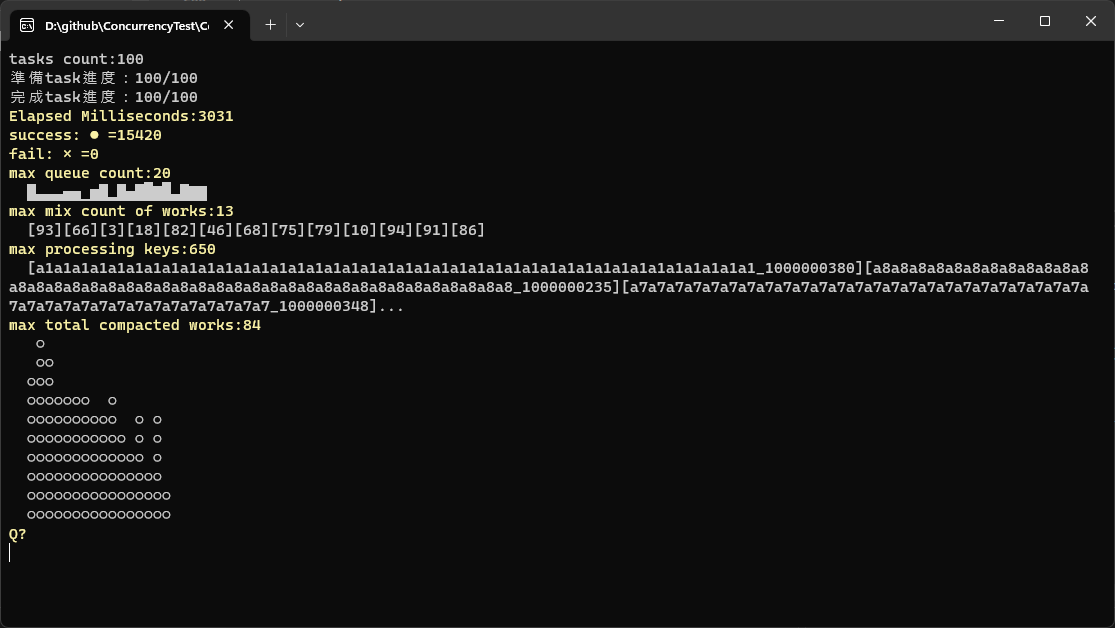
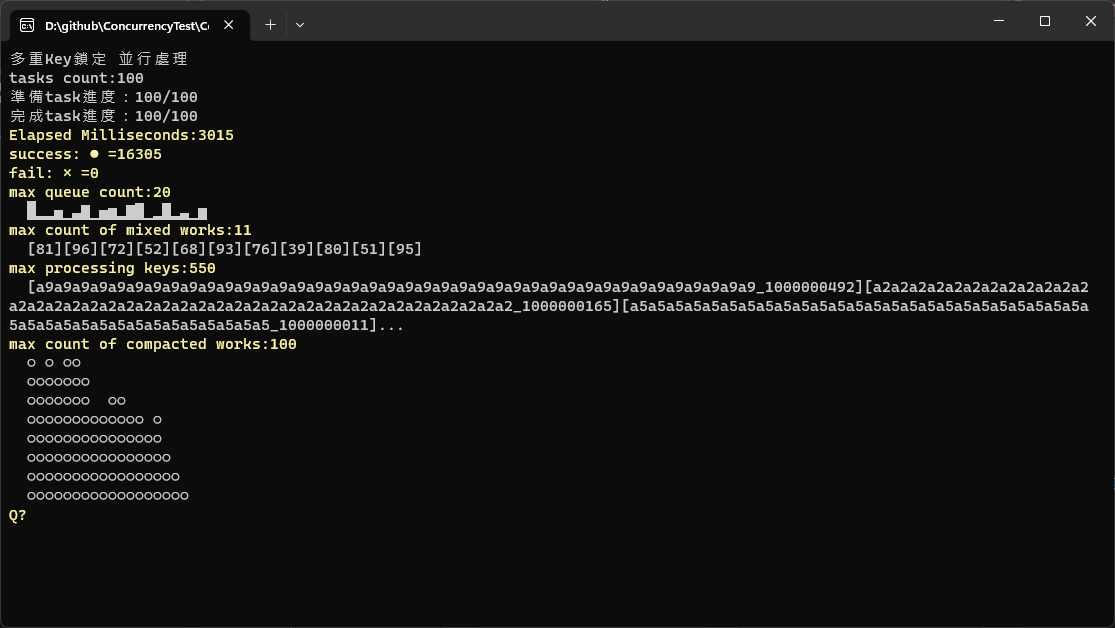
調整範例圖片和文字

diff --git a/ConcurrencyTest/Program.cs b/ConcurrencyTest/Program.cs
@@ -12,11 +12,11 @@ internal class Program
         do
         {
             int record_maxQueueCount = 0;
-            int record_maxMixCountOfWorks = 1;
+            int record_maxCountOfMixedWorks = 1;
             int[] record_maxMixCountOfWorkIds = new int[0];
             int record_maxProcessingKeys = 0;
             string[] record_maxProcessingKeyStrings = new string[0];
-            int record_maxTotalCompactedWorks = 1;
+            int record_maxCountOfCompactedWorks = 1;
             int[] record_maxTotalCompactedWorkCounts = new int[0];
 
             object lockProcessing = new();
@@ -54,14 +54,14 @@ internal class Program
                         var hasProcessingSpaceForKeys = !processing.Overlaps(firstMixKeys);
                         if (hasProcessingSpaceForKeys)
                         {
-                            if (record_maxMixCountOfWorks < firstWorkInfos.Count)
+                            if (record_maxCountOfMixedWorks < firstWorkInfos.Count)
                                 record_maxMixCountOfWorkIds = firstWorkInfos.Select(n => n.Id).ToArray();
-                            record_maxMixCountOfWorks = Math.Max(record_maxMixCountOfWorks, firstWorkInfos.Count);
-                            var new_record_maxTotalCompactedWorks = mixWorksInfoLinkedList.Sum(n => n.workInfos.Count - 1);
-                            if (record_maxTotalCompactedWorks < new_record_maxTotalCompactedWorks)
+                            record_maxCountOfMixedWorks = Math.Max(record_maxCountOfMixedWorks, firstWorkInfos.Count);
+                            var new_record_maxTotalCompactedWorks = mixWorksInfoLinkedList.Sum(n => n.workInfos.Count);
+                            if (record_maxCountOfCompactedWorks < new_record_maxTotalCompactedWorks)
                                 record_maxTotalCompactedWorkCounts = mixWorksInfoLinkedList.Select(n => n.workInfos.Count).ToArray();
-                            record_maxTotalCompactedWorks =
-                                Math.Max(record_maxTotalCompactedWorks, new_record_maxTotalCompactedWorks);
+                            record_maxCountOfCompactedWorks =
+                                Math.Max(record_maxCountOfCompactedWorks, new_record_maxTotalCompactedWorks);
 
                             // add first to processing
                             processing.UnionWith(firstMixKeys);
@@ -266,7 +266,7 @@ internal class Program
             var boxChars = new char[] { '▁', '▂', '▃', '▄', '▅', '▆', '▇', '█' };
             Console.WriteLine($"  {string.Join("", Enumerable.Repeat(' ', record_maxQueueCount).Select(n => boxChars[rand.Next(0, boxChars.Length)]))}");
             Console.ForegroundColor = recordColor;
-            Console.WriteLine($"max mix count of works:{record_maxMixCountOfWorks}");
+            Console.WriteLine($"max count of mixed works:{record_maxCountOfMixedWorks}");
             Console.ResetColor();
             Console.WriteLine($"{caseSpace}{string.Join("", record_maxMixCountOfWorkIds.Select(id => $"[{id}]"))}");
             Console.ForegroundColor = recordColor;
@@ -274,7 +274,7 @@ internal class Program
             Console.ResetColor();
             Console.WriteLine($"{caseSpace}{string.Join("", record_maxProcessingKeyStrings.Take(3).Select(n => $"[{n}]"))}...");
             Console.ForegroundColor = recordColor;
-            Console.WriteLine($"max total compacted works:{record_maxTotalCompactedWorks}");
+            Console.WriteLine($"max count of compacted works:{record_maxCountOfCompactedWorks}");
             Console.ResetColor();
             var rowCount_record_maxTotalCompactedWorkCounts = record_maxTotalCompactedWorkCounts.Max();
             for (int i = 0; i < rowCount_record_maxTotalCompactedWorkCounts; i++)
